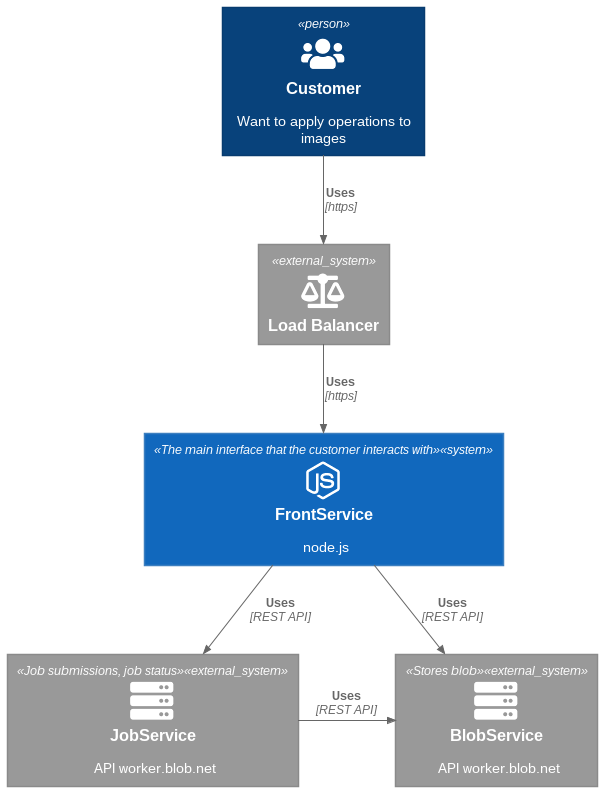
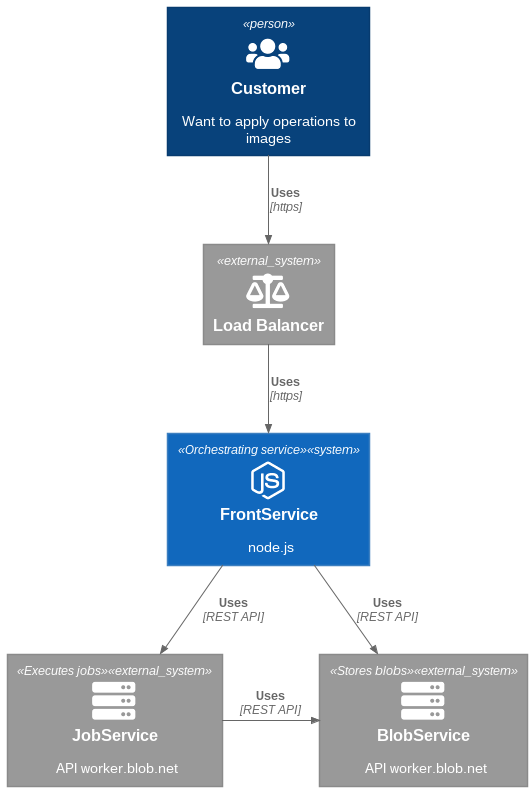
Latest changes
saving job's status after query to JobService in "get output" use case
updated postman collection
updated documentation (moved sections, new section, better wording)
deleter useless "docs" directory
updated diagrams

diff --git a/src/application/usecases/GetJobOutput.ts b/src/application/usecases/GetJobOutput.ts
@@ -19,7 +19,6 @@ export class GetJobOutput {
   constructor(jobRepository: IJobRepository, blobService: IBlobService, jobService: IJobService) {
     this.jobRepository = jobRepository;
     this.blobService = blobService;
-    this.blobService = blobService;
     this.jobService = jobService;
   }
 
@@ -84,12 +83,16 @@ export class GetJobOutput {
     let bsResponse: BSBlobOutput | BSError;
     switch (jsResponse) {
       case JS_JOB_STATUS.FAILED:
+        job.errorExecutingJob();
+        await this.jobRepository.update(job);
         Logger.log(`GetJobOutput UseCase: job's output is not ready yet: ${id}`);
         throw new PTCError(PTCERROR_TYPE.NOT_FOUND, 'Output for this job does not exist yet.');
       case JS_JOB_STATUS.RUNNING:
         Logger.log(`GetJobOutput UseCase: job's output is not ready yet: ${id}`);
         throw new PTCError(PTCERROR_TYPE.NOT_FOUND, 'Output for this job does not exist yet.');
       case JS_JOB_STATUS.SUCCESS:
+        job.executionCompleted();
+        await this.jobRepository.update(job);
         if (!job.extBlobId) {
           Logger.log(`GetJobOutput UseCase: should never happen, extJobId should be defined here: ${id}`);
           throw new PTCError(PTCERROR_TYPE.DOMAIN_ERROR, `Job ${id} should have "extBlobId" set.`);

diff --git a/README.md b/README.md
@@ -22,6 +22,17 @@ Run end-to-end smoke tests
 
     npm run test
 
+## Directory Structure
+
+| Directory | Content                                       |
+| --------- | --------------------------------------------- |
+| diagrams  | Diagrams created with PlantUML                |
+| out       | Diagrams exported as images                   |
+| postman   | Postman collection exported with calls to API |
+| src       | source code of solution                       |
+| test      | test code                                     |
+| .         | configuration and env files                   |
+
 ### Architectural overveiw
 
 I designed _FrontService_ as the front service to orchestrate blob and job submission to downstream services _BlobService_ and _JobService_.
@@ -38,7 +49,19 @@ _FrontService_ is a simple stateless service that uses a mongodb cluster to stor
 
 The load balancer allows the API component to be scaled up and down transparently to the users.
 
-For the storage layer I designed the solution to use _mongodb_ because it's a fast key-value store. The data model used in _FrontService_ is very simple, the service deals only with one kind of objects, jobs, each one stores just a few information to keep track of the orchestration by external services (their ids) and the owner of the resource. For these reasons there's no need for a ACID transactions which would just add overhead on each storage access operation and will pose more problems when scaling (RDBMS are notoriously hard to scale horizontally, and costly to scale vertically).
+For the storage layer I designed the solution to use _mongodb_ because it's a fast document store. The data model used in _FrontService_ is very simple, the service deals only with one kind of objects, jobs, each one stores just a few information to keep track of the orchestration by external services (their ids) and the owner of the resource. For these reasons there's no need for a ACID transactions which would just add overhead on each storage access operation and will pose more problems when scaling (RDBMS are harder hard to scale horizontally, and more costly to scale vertically).
+
+### Assumptions
+
+- _BlobService_ never deletes a blob unless he's told so, but that use case is out of scope, that means that one stored a blob will always be found.
+- _JobService_ will overwrite the input blob with the output of its elaboration. That simplifies the communication between the systems but doesn't change the solution.
+- _JobService_ will store the output's blob in _BlobService_ before setting the job's status to `SUCCESS`.
+
+### Implementation
+
+Only the _API_ component of the system has been implemented in this PoC, the storage layer as well as the external services are mocked with classes, the internal code architecture allow for an easy switch from mock to real services.
+
+_JobService_ and _BlobService_ mocks are implemented to return errors randomly, as well as different valid expected values.
 
 ### API
 
@@ -48,7 +71,7 @@ For the storage layer I designed the solution to use _mongodb_ because it's a fa
 
 #### POST /api/v1/job
 
-When submitting a new job to _FrontService_, it takes care of storing the input blob to _BlobService_ and submitting a job request to _JobService_.
+When submitting a new job to _FrontService_, the system takes care of storing the input blob to _BlobService_ and submitting a job request to _JobService_.
 
 _FrontService_ will return to the user as soon as the needed info is stored locally, then the rest of the orchestration is executed asynchronously.
 
@@ -108,20 +131,9 @@ In all the other cases _FrontService_ asks _JobService_ for the status of the co
 
 Each API endpoint is authenticated via a Bearer JWT token. Since this is a PoC only a few simple checks are done, and the token is not verified.
 
-The PoC checks that the audience provided in the token matches the one configured.
+The PoC checks that the `audience` provided in the token matches the one configured in the app.
 
 The pair `tenentId` and `sub` from the JWT token are used to identify the users, they are attached to each created job and check before accessing it, only the user that created a job can retrieve it's status and output.
-
-#### Assumptions
-
-- _BlobService_ never deletes a blob unless he's told so, but that use case is out of scope, that means that one stored a blob will always be found.
-- _JobService_ will overwrite the input blob with the output of its elaboration. That simplifies the communication between the systems but doesn't change the solution.
-
-### Implementation
-
-Only the _API_ component of the system has been implemented in this PoC, the storage layer as well as the external services are mocked with classes, the internal code architecture allow for an easy switch from mock to real services.
-
-_JobService_ and _BlobService_ mocks are implemented to return errors randomly, as well as different valid expected values.
 
 #### Internal Architecture
 
